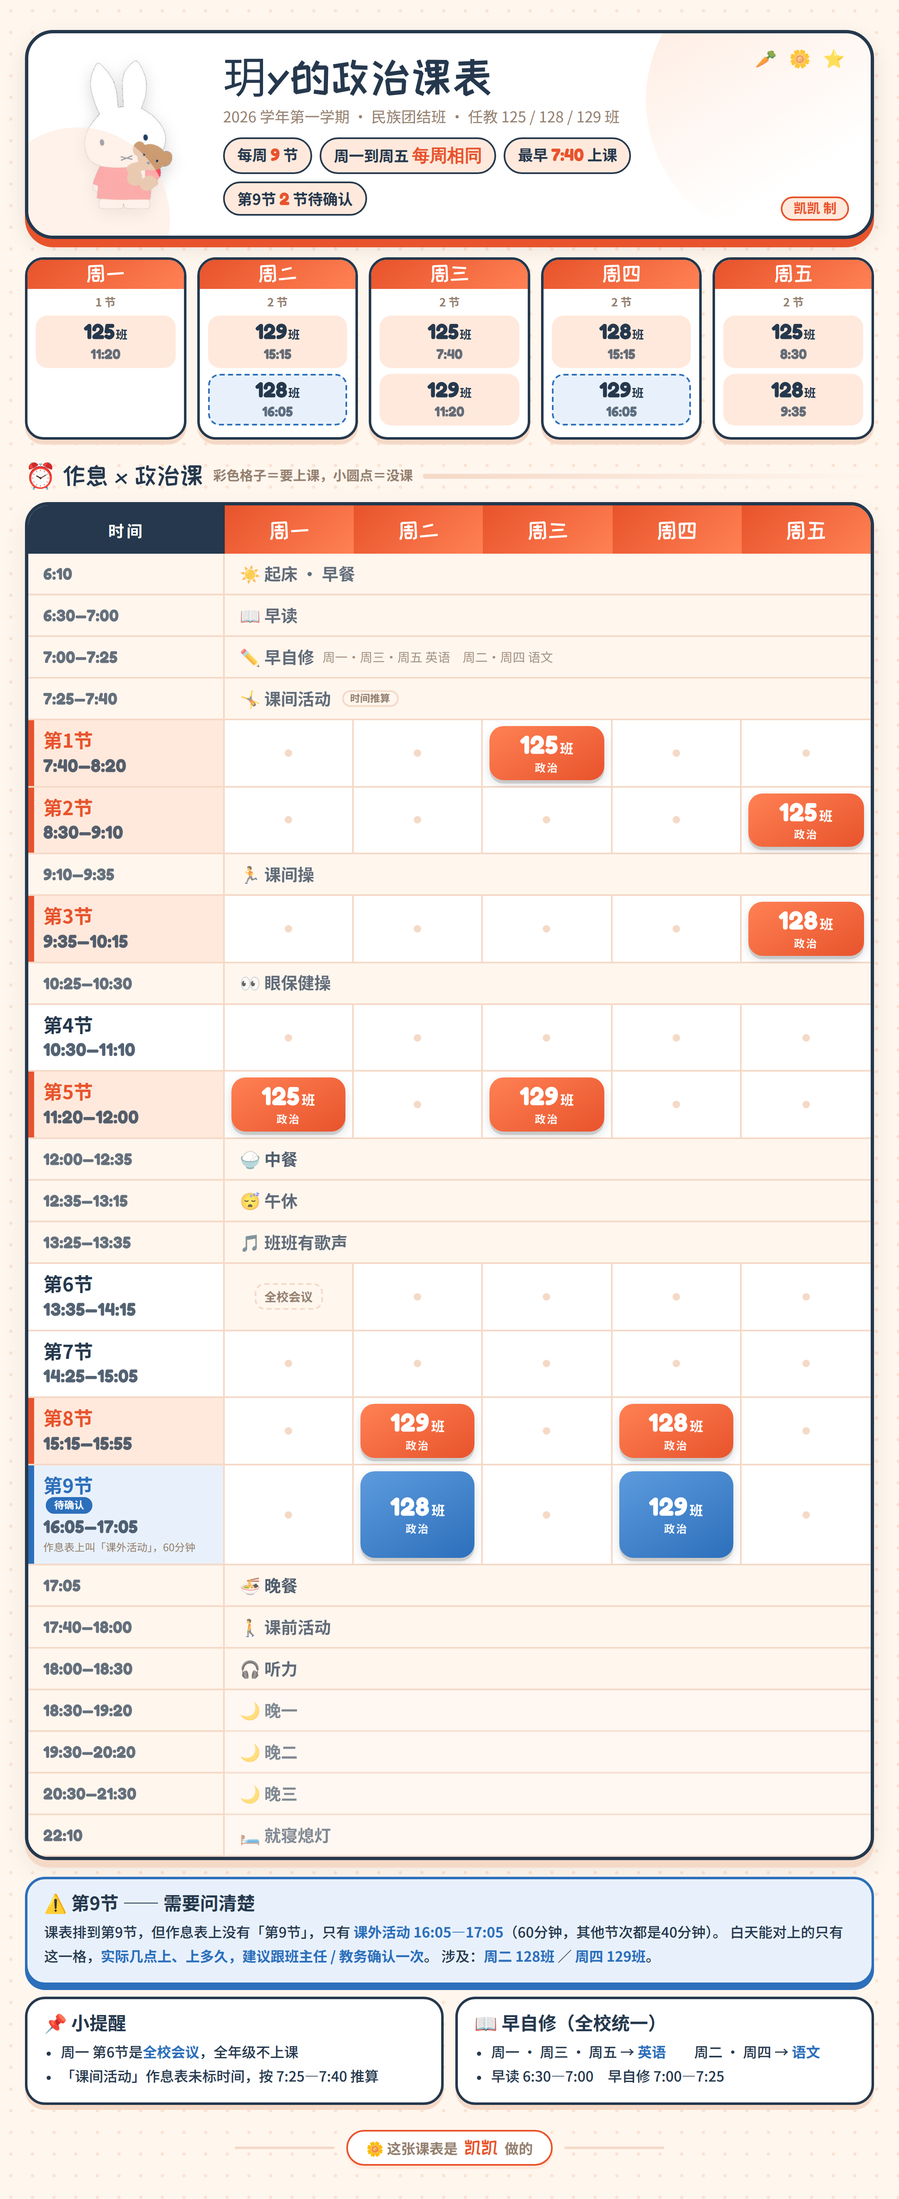
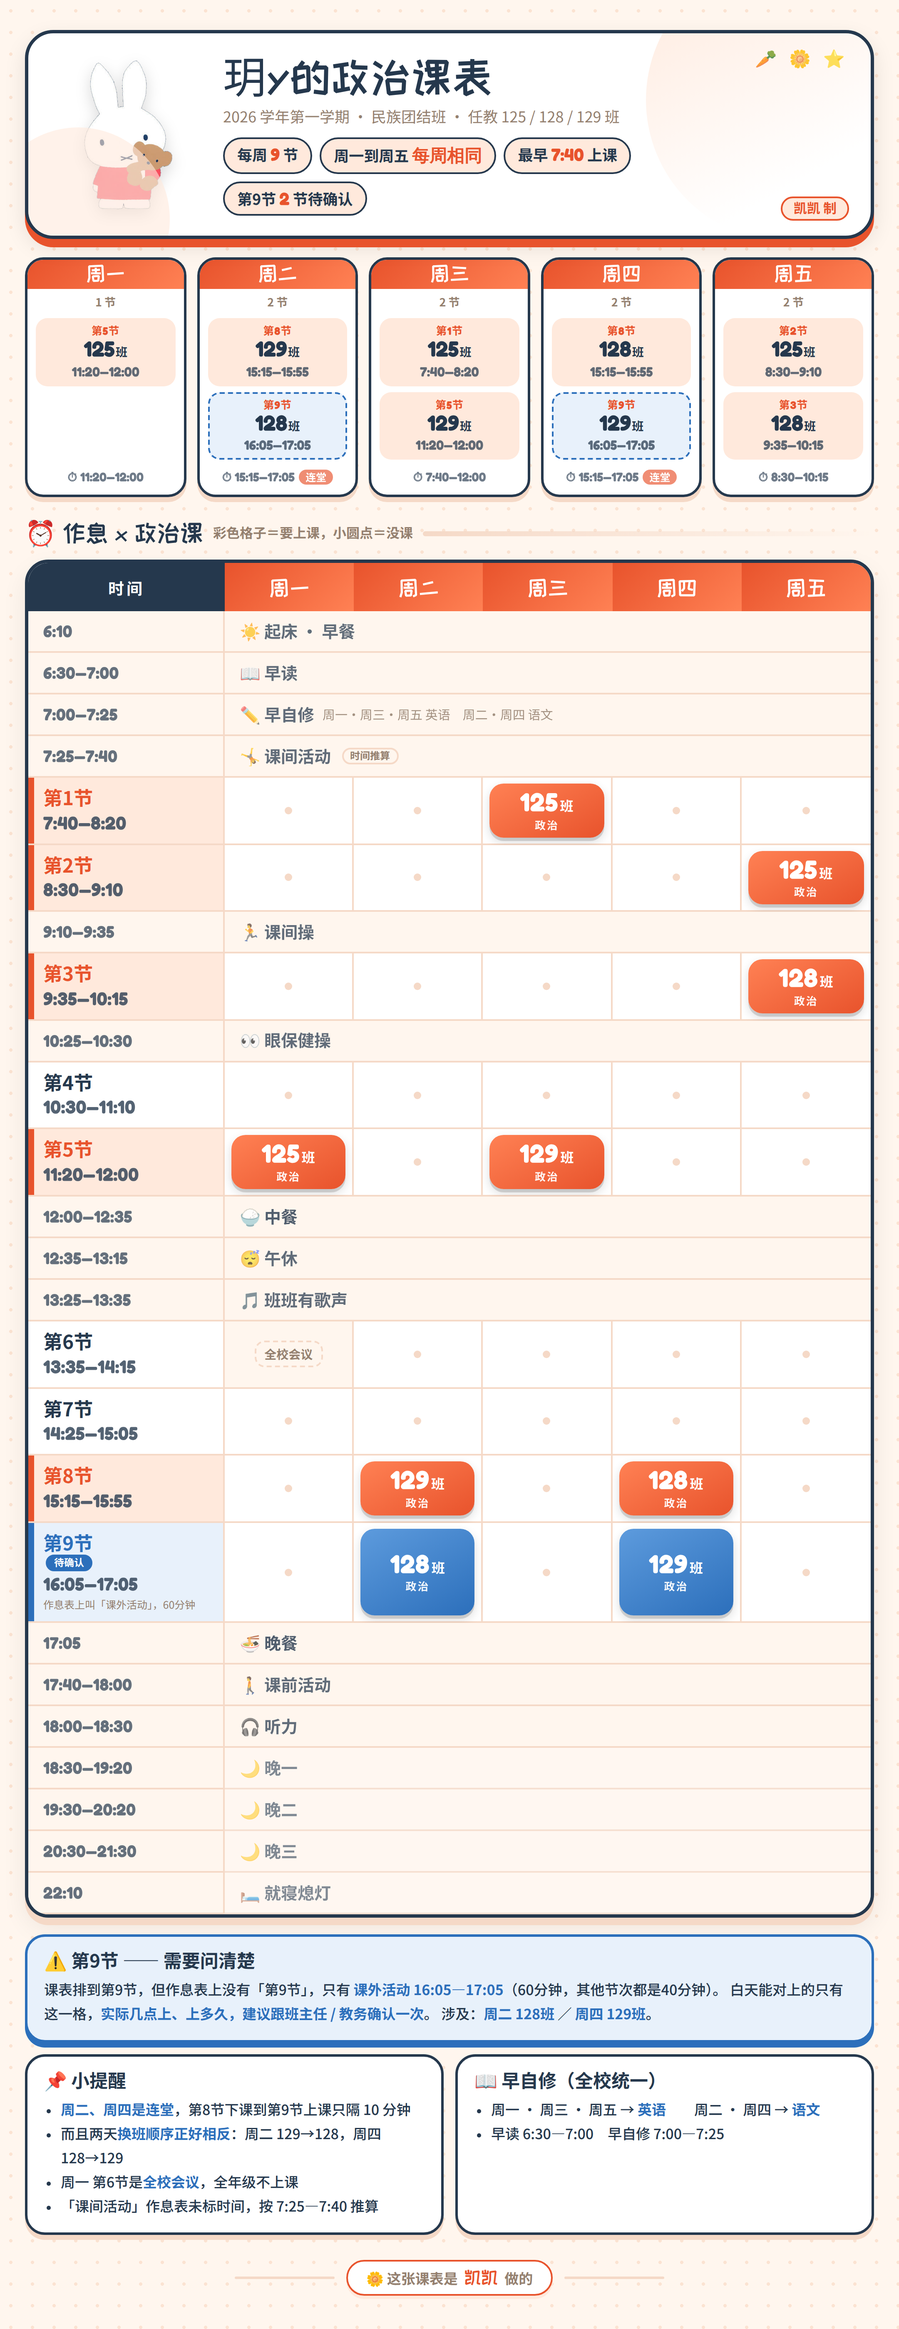
Surface period numbers, day spans, and the back-to-back lesson hazard
Reviewing the sheet as someone actually teaching from it turned up three gaps:
the glance cards named a class and a start time but never the period number,
which is how colleagues and students refer to a lesson; there was no way to see
how long a day runs; and nothing flagged that Tuesday and Thursday both run
period 8 straight into period 9 with a ten-minute gap, in opposite class order
(129 then 128 on Tuesday, 128 then 129 on Thursday) - the easiest way to walk
into the wrong room.

Glance cards now carry the period, the full time range, and a footer with the
day's span plus a 连堂 tag when two lessons are within 15 minutes; the reminder
box spells out the reversed order.

Claude-Session: https://claude.ai/code/session_01PkbQVBneuAgKa97Dwj4CEX

diff --git a/timetable/tt_bunny.html b/timetable/tt_bunny.html
@@ -37,16 +37,24 @@ h1 small{display:block;font-size:18px;color:var(--muted);margin-top:8px;letter-s
 
 /* ---------- 速览 ---------- */
 .glance{display:grid;grid-template-columns:repeat(5,1fr);gap:13px;margin-top:22px}
-.gl{background:var(--card);border:3px solid var(--ink);border-radius:22px;padding:0 10px 14px;
-    text-align:center;box-shadow:0 6px 0 var(--line);overflow:hidden}
+.gl{background:var(--card);border:3px solid var(--ink);border-radius:22px;padding:0 10px 12px;
+    text-align:center;box-shadow:0 6px 0 var(--line);overflow:hidden;
+    display:flex;flex-direction:column}
 .gl__d{font-size:26px;color:#fff;line-height:1.35;margin:0 -10px;
        background:linear-gradient(135deg,var(--brand),var(--brand2))}
-.gl__n{font-size:13.5px;color:var(--muted);font-weight:700;margin:7px 0 8px}
-.gl__i{background:var(--soft);border-radius:14px;padding:6px 4px;margin-top:7px}
+.gl__n{font-size:13.5px;color:var(--muted);font-weight:700;margin:7px 0 4px}
+.gl__i{background:var(--soft);border-radius:14px;padding:7px 4px 8px;margin-top:7px}
+.gl__p{display:block;font-size:13px;font-weight:800;color:var(--brand);letter-spacing:.5px}
+.gl__t{display:block;font-size:16px;color:var(--ink);opacity:.72;font-weight:700;margin-top:2px;
+       font-family:'Fredoka','Noto Sans SC',sans-serif}
+.gl__sp{margin-top:auto;padding-top:11px;font-size:15px;font-weight:700;color:var(--ink);opacity:.66;
+        font-family:'Fredoka','Noto Sans SC',sans-serif;white-space:nowrap}
+.gl__b2b{display:inline-block;font-style:normal;font-size:12.5px;font-weight:800;color:#fff;
+         background:var(--brand);border-radius:99px;padding:1px 8px;margin-left:5px;
+         font-family:'Noto Sans SC',sans-serif}
 .gl__i b{display:block;font-size:26px;font-family:'Fredoka',sans-serif;line-height:1.05;color:var(--ink)}
 .gl__i b em{font-size:14px;font-style:normal;font-weight:700;margin-left:1px;
             font-family:'Noto Sans SC',sans-serif}
-.gl__i span{display:block;font-size:17px;color:var(--ink);opacity:.7;font-weight:700;margin-top:2px}
 .gl__i--nine{background:var(--warnbg);outline:2.5px dashed var(--warn);outline-offset:-2px}
 
 /* ---------- 主表 ---------- */
@@ -140,31 +148,36 @@ h2{font-size:30px}
       <div class="gl">
         <div class="gl__d">周一</div>
         <div class="gl__n">1 节</div>
-        <div class="gl__i"><b>125<em>班</em></b><span>11:20</span></div>
+        <div class="gl__i"><span class="gl__p">第5节</span><b>125<em>班</em></b><span class="gl__t">11:20—12:00</span></div>
+        <div class="gl__sp">⏱ 11:20—12:00</div>
       </div>
 
       <div class="gl">
         <div class="gl__d">周二</div>
         <div class="gl__n">2 节</div>
-        <div class="gl__i"><b>129<em>班</em></b><span>15:15</span></div><div class="gl__i gl__i--nine"><b>128<em>班</em></b><span>16:05</span></div>
+        <div class="gl__i"><span class="gl__p">第8节</span><b>129<em>班</em></b><span class="gl__t">15:15—15:55</span></div><div class="gl__i gl__i--nine"><span class="gl__p">第9节</span><b>128<em>班</em></b><span class="gl__t">16:05—17:05</span></div>
+        <div class="gl__sp">⏱ 15:15—17:05<em class="gl__b2b">连堂</em></div>
       </div>
 
       <div class="gl">
         <div class="gl__d">周三</div>
         <div class="gl__n">2 节</div>
-        <div class="gl__i"><b>125<em>班</em></b><span>7:40</span></div><div class="gl__i"><b>129<em>班</em></b><span>11:20</span></div>
+        <div class="gl__i"><span class="gl__p">第1节</span><b>125<em>班</em></b><span class="gl__t">7:40—8:20</span></div><div class="gl__i"><span class="gl__p">第5节</span><b>129<em>班</em></b><span class="gl__t">11:20—12:00</span></div>
+        <div class="gl__sp">⏱ 7:40—12:00</div>
       </div>
 
       <div class="gl">
         <div class="gl__d">周四</div>
         <div class="gl__n">2 节</div>
-        <div class="gl__i"><b>128<em>班</em></b><span>15:15</span></div><div class="gl__i gl__i--nine"><b>129<em>班</em></b><span>16:05</span></div>
+        <div class="gl__i"><span class="gl__p">第8节</span><b>128<em>班</em></b><span class="gl__t">15:15—15:55</span></div><div class="gl__i gl__i--nine"><span class="gl__p">第9节</span><b>129<em>班</em></b><span class="gl__t">16:05—17:05</span></div>
+        <div class="gl__sp">⏱ 15:15—17:05<em class="gl__b2b">连堂</em></div>
       </div>
 
       <div class="gl">
         <div class="gl__d">周五</div>
         <div class="gl__n">2 节</div>
-        <div class="gl__i"><b>125<em>班</em></b><span>8:30</span></div><div class="gl__i"><b>128<em>班</em></b><span>9:35</span></div>
+        <div class="gl__i"><span class="gl__p">第2节</span><b>125<em>班</em></b><span class="gl__t">8:30—9:10</span></div><div class="gl__i"><span class="gl__p">第3节</span><b>128<em>班</em></b><span class="gl__t">9:35—10:15</span></div>
+        <div class="gl__sp">⏱ 8:30—10:15</div>
       </div></div>
 
   <div class="sec__hd"><h2>⏰ 作息 × 政治课</h2>
@@ -274,6 +287,8 @@ h2{font-size:30px}
     <div class="note">
       <h3>📌 小提醒</h3>
       <ul>
+        <li><b>周二、周四是连堂</b>，第8节下课到第9节上课只隔 10 分钟</li>
+        <li>而且两天<b>换班顺序正好相反</b>：周二 129→128，周四 128→129</li>
         <li>周一 第6节是<b>全校会议</b>，全年级不上课</li>
         <li>「课间活动」作息表未标时间，按 7:25—7:40 推算</li>
       </ul>

diff --git a/timetable/tt_kitty.html b/timetable/tt_kitty.html
@@ -37,16 +37,24 @@ h1 small{display:block;font-size:18px;color:var(--muted);margin-top:8px;letter-s
 
 /* ---------- 速览 ---------- */
 .glance{display:grid;grid-template-columns:repeat(5,1fr);gap:13px;margin-top:22px}
-.gl{background:var(--card);border:3px solid var(--ink);border-radius:22px;padding:0 10px 14px;
-    text-align:center;box-shadow:0 6px 0 var(--line);overflow:hidden}
+.gl{background:var(--card);border:3px solid var(--ink);border-radius:22px;padding:0 10px 12px;
+    text-align:center;box-shadow:0 6px 0 var(--line);overflow:hidden;
+    display:flex;flex-direction:column}
 .gl__d{font-size:26px;color:#fff;line-height:1.35;margin:0 -10px;
        background:linear-gradient(135deg,var(--brand),var(--brand2))}
-.gl__n{font-size:13.5px;color:var(--muted);font-weight:700;margin:7px 0 8px}
-.gl__i{background:var(--soft);border-radius:14px;padding:6px 4px;margin-top:7px}
+.gl__n{font-size:13.5px;color:var(--muted);font-weight:700;margin:7px 0 4px}
+.gl__i{background:var(--soft);border-radius:14px;padding:7px 4px 8px;margin-top:7px}
+.gl__p{display:block;font-size:13px;font-weight:800;color:var(--brand);letter-spacing:.5px}
+.gl__t{display:block;font-size:16px;color:var(--ink);opacity:.72;font-weight:700;margin-top:2px;
+       font-family:'Fredoka','Noto Sans SC',sans-serif}
+.gl__sp{margin-top:auto;padding-top:11px;font-size:15px;font-weight:700;color:var(--ink);opacity:.66;
+        font-family:'Fredoka','Noto Sans SC',sans-serif;white-space:nowrap}
+.gl__b2b{display:inline-block;font-style:normal;font-size:12.5px;font-weight:800;color:#fff;
+         background:var(--brand);border-radius:99px;padding:1px 8px;margin-left:5px;
+         font-family:'Noto Sans SC',sans-serif}
 .gl__i b{display:block;font-size:26px;font-family:'Fredoka',sans-serif;line-height:1.05;color:var(--ink)}
 .gl__i b em{font-size:14px;font-style:normal;font-weight:700;margin-left:1px;
             font-family:'Noto Sans SC',sans-serif}
-.gl__i span{display:block;font-size:17px;color:var(--ink);opacity:.7;font-weight:700;margin-top:2px}
 .gl__i--nine{background:var(--warnbg);outline:2.5px dashed var(--warn);outline-offset:-2px}
 
 /* ---------- 主表 ---------- */
@@ -140,31 +148,36 @@ h2{font-size:30px}
       <div class="gl">
         <div class="gl__d">周一</div>
         <div class="gl__n">1 节</div>
-        <div class="gl__i"><b>125<em>班</em></b><span>11:20</span></div>
+        <div class="gl__i"><span class="gl__p">第5节</span><b>125<em>班</em></b><span class="gl__t">11:20—12:00</span></div>
+        <div class="gl__sp">⏱ 11:20—12:00</div>
       </div>
 
       <div class="gl">
         <div class="gl__d">周二</div>
         <div class="gl__n">2 节</div>
-        <div class="gl__i"><b>129<em>班</em></b><span>15:15</span></div><div class="gl__i gl__i--nine"><b>128<em>班</em></b><span>16:05</span></div>
+        <div class="gl__i"><span class="gl__p">第8节</span><b>129<em>班</em></b><span class="gl__t">15:15—15:55</span></div><div class="gl__i gl__i--nine"><span class="gl__p">第9节</span><b>128<em>班</em></b><span class="gl__t">16:05—17:05</span></div>
+        <div class="gl__sp">⏱ 15:15—17:05<em class="gl__b2b">连堂</em></div>
       </div>
 
       <div class="gl">
         <div class="gl__d">周三</div>
         <div class="gl__n">2 节</div>
-        <div class="gl__i"><b>125<em>班</em></b><span>7:40</span></div><div class="gl__i"><b>129<em>班</em></b><span>11:20</span></div>
+        <div class="gl__i"><span class="gl__p">第1节</span><b>125<em>班</em></b><span class="gl__t">7:40—8:20</span></div><div class="gl__i"><span class="gl__p">第5节</span><b>129<em>班</em></b><span class="gl__t">11:20—12:00</span></div>
+        <div class="gl__sp">⏱ 7:40—12:00</div>
       </div>
 
       <div class="gl">
         <div class="gl__d">周四</div>
         <div class="gl__n">2 节</div>
-        <div class="gl__i"><b>128<em>班</em></b><span>15:15</span></div><div class="gl__i gl__i--nine"><b>129<em>班</em></b><span>16:05</span></div>
+        <div class="gl__i"><span class="gl__p">第8节</span><b>128<em>班</em></b><span class="gl__t">15:15—15:55</span></div><div class="gl__i gl__i--nine"><span class="gl__p">第9节</span><b>129<em>班</em></b><span class="gl__t">16:05—17:05</span></div>
+        <div class="gl__sp">⏱ 15:15—17:05<em class="gl__b2b">连堂</em></div>
       </div>
 
       <div class="gl">
         <div class="gl__d">周五</div>
         <div class="gl__n">2 节</div>
-        <div class="gl__i"><b>125<em>班</em></b><span>8:30</span></div><div class="gl__i"><b>128<em>班</em></b><span>9:35</span></div>
+        <div class="gl__i"><span class="gl__p">第2节</span><b>125<em>班</em></b><span class="gl__t">8:30—9:10</span></div><div class="gl__i"><span class="gl__p">第3节</span><b>128<em>班</em></b><span class="gl__t">9:35—10:15</span></div>
+        <div class="gl__sp">⏱ 8:30—10:15</div>
       </div></div>
 
   <div class="sec__hd"><h2>⏰ 作息 × 政治课</h2>
@@ -274,6 +287,8 @@ h2{font-size:30px}
     <div class="note">
       <h3>📌 小提醒</h3>
       <ul>
+        <li><b>周二、周四是连堂</b>，第8节下课到第9节上课只隔 10 分钟</li>
+        <li>而且两天<b>换班顺序正好相反</b>：周二 129→128，周四 128→129</li>
         <li>周一 第6节是<b>全校会议</b>，全年级不上课</li>
         <li>「课间活动」作息表未标时间，按 7:25—7:40 推算</li>
       </ul>

diff --git a/timetable/tt_puppy.html b/timetable/tt_puppy.html
@@ -37,16 +37,24 @@ h1 small{display:block;font-size:18px;color:var(--muted);margin-top:8px;letter-s
 
 /* ---------- 速览 ---------- */
 .glance{display:grid;grid-template-columns:repeat(5,1fr);gap:13px;margin-top:22px}
-.gl{background:var(--card);border:3px solid var(--ink);border-radius:22px;padding:0 10px 14px;
-    text-align:center;box-shadow:0 6px 0 var(--line);overflow:hidden}
+.gl{background:var(--card);border:3px solid var(--ink);border-radius:22px;padding:0 10px 12px;
+    text-align:center;box-shadow:0 6px 0 var(--line);overflow:hidden;
+    display:flex;flex-direction:column}
 .gl__d{font-size:26px;color:#fff;line-height:1.35;margin:0 -10px;
        background:linear-gradient(135deg,var(--brand),var(--brand2))}
-.gl__n{font-size:13.5px;color:var(--muted);font-weight:700;margin:7px 0 8px}
-.gl__i{background:var(--soft);border-radius:14px;padding:6px 4px;margin-top:7px}
+.gl__n{font-size:13.5px;color:var(--muted);font-weight:700;margin:7px 0 4px}
+.gl__i{background:var(--soft);border-radius:14px;padding:7px 4px 8px;margin-top:7px}
+.gl__p{display:block;font-size:13px;font-weight:800;color:var(--brand);letter-spacing:.5px}
+.gl__t{display:block;font-size:16px;color:var(--ink);opacity:.72;font-weight:700;margin-top:2px;
+       font-family:'Fredoka','Noto Sans SC',sans-serif}
+.gl__sp{margin-top:auto;padding-top:11px;font-size:15px;font-weight:700;color:var(--ink);opacity:.66;
+        font-family:'Fredoka','Noto Sans SC',sans-serif;white-space:nowrap}
+.gl__b2b{display:inline-block;font-style:normal;font-size:12.5px;font-weight:800;color:#fff;
+         background:var(--brand);border-radius:99px;padding:1px 8px;margin-left:5px;
+         font-family:'Noto Sans SC',sans-serif}
 .gl__i b{display:block;font-size:26px;font-family:'Fredoka',sans-serif;line-height:1.05;color:var(--ink)}
 .gl__i b em{font-size:14px;font-style:normal;font-weight:700;margin-left:1px;
             font-family:'Noto Sans SC',sans-serif}
-.gl__i span{display:block;font-size:17px;color:var(--ink);opacity:.7;font-weight:700;margin-top:2px}
 .gl__i--nine{background:var(--warnbg);outline:2.5px dashed var(--warn);outline-offset:-2px}
 
 /* ---------- 主表 ---------- */
@@ -140,31 +148,36 @@ h2{font-size:30px}
       <div class="gl">
         <div class="gl__d">周一</div>
         <div class="gl__n">1 节</div>
-        <div class="gl__i"><b>125<em>班</em></b><span>11:20</span></div>
+        <div class="gl__i"><span class="gl__p">第5节</span><b>125<em>班</em></b><span class="gl__t">11:20—12:00</span></div>
+        <div class="gl__sp">⏱ 11:20—12:00</div>
       </div>
 
       <div class="gl">
         <div class="gl__d">周二</div>
         <div class="gl__n">2 节</div>
-        <div class="gl__i"><b>129<em>班</em></b><span>15:15</span></div><div class="gl__i gl__i--nine"><b>128<em>班</em></b><span>16:05</span></div>
+        <div class="gl__i"><span class="gl__p">第8节</span><b>129<em>班</em></b><span class="gl__t">15:15—15:55</span></div><div class="gl__i gl__i--nine"><span class="gl__p">第9节</span><b>128<em>班</em></b><span class="gl__t">16:05—17:05</span></div>
+        <div class="gl__sp">⏱ 15:15—17:05<em class="gl__b2b">连堂</em></div>
       </div>
 
       <div class="gl">
         <div class="gl__d">周三</div>
         <div class="gl__n">2 节</div>
-        <div class="gl__i"><b>125<em>班</em></b><span>7:40</span></div><div class="gl__i"><b>129<em>班</em></b><span>11:20</span></div>
+        <div class="gl__i"><span class="gl__p">第1节</span><b>125<em>班</em></b><span class="gl__t">7:40—8:20</span></div><div class="gl__i"><span class="gl__p">第5节</span><b>129<em>班</em></b><span class="gl__t">11:20—12:00</span></div>
+        <div class="gl__sp">⏱ 7:40—12:00</div>
       </div>
 
       <div class="gl">
         <div class="gl__d">周四</div>
         <div class="gl__n">2 节</div>
-        <div class="gl__i"><b>128<em>班</em></b><span>15:15</span></div><div class="gl__i gl__i--nine"><b>129<em>班</em></b><span>16:05</span></div>
+        <div class="gl__i"><span class="gl__p">第8节</span><b>128<em>班</em></b><span class="gl__t">15:15—15:55</span></div><div class="gl__i gl__i--nine"><span class="gl__p">第9节</span><b>129<em>班</em></b><span class="gl__t">16:05—17:05</span></div>
+        <div class="gl__sp">⏱ 15:15—17:05<em class="gl__b2b">连堂</em></div>
       </div>
 
       <div class="gl">
         <div class="gl__d">周五</div>
         <div class="gl__n">2 节</div>
-        <div class="gl__i"><b>125<em>班</em></b><span>8:30</span></div><div class="gl__i"><b>128<em>班</em></b><span>9:35</span></div>
+        <div class="gl__i"><span class="gl__p">第2节</span><b>125<em>班</em></b><span class="gl__t">8:30—9:10</span></div><div class="gl__i"><span class="gl__p">第3节</span><b>128<em>班</em></b><span class="gl__t">9:35—10:15</span></div>
+        <div class="gl__sp">⏱ 8:30—10:15</div>
       </div></div>
 
   <div class="sec__hd"><h2>⏰ 作息 × 政治课</h2>
@@ -274,6 +287,8 @@ h2{font-size:30px}
     <div class="note">
       <h3>📌 小提醒</h3>
       <ul>
+        <li><b>周二、周四是连堂</b>，第8节下课到第9节上课只隔 10 分钟</li>
+        <li>而且两天<b>换班顺序正好相反</b>：周二 129→128，周四 128→129</li>
         <li>周一 第6节是<b>全校会议</b>，全年级不上课</li>
         <li>「课间活动」作息表未标时间，按 7:25—7:40 推算</li>
       </ul>

diff --git a/timetable/build.py b/timetable/build.py
@@ -146,19 +146,37 @@ def user_mascot(key):
     return None
 
 # ---------------- HTML 片段 ----------------
+def _mins(t):
+    h, m = t.split(":")
+    return int(h) * 60 + int(m)
+
+def day_span(ls):
+    """当天从第一节开始到最后一节结束的跨度，以及是否连堂（间隔≤15分钟）"""
+    first = PERIOD_TIME[ls[0][1]].split("—")[0]
+    last = PERIOD_TIME[ls[-1][1]].split("—")[-1]
+    back2back = any(_mins(PERIOD_TIME[b[1]].split("—")[0]) -
+                    _mins(PERIOD_TIME[a[1]].split("—")[-1]) <= 15
+                    for a, b in zip(ls, ls[1:]))
+    return f"{first}—{last}", back2back
+
 def build_glance():
     out = []
     for d in range(1, 6):
         ls = day_lessons(d)
         items = "".join(
             f'<div class="gl__i{" gl__i--nine" if p == 9 else ""}">'
-            f'<b>{k}<em>班</em></b><span>{PERIOD_TIME[p].split("—")[0]}</span></div>'
+            f'<span class="gl__p">第{p}节</span>'
+            f'<b>{k}<em>班</em></b>'
+            f'<span class="gl__t">{PERIOD_TIME[p]}</span></div>'
             for (_, p, k) in ls)
+        span, b2b = day_span(ls)
+        tag = '<em class="gl__b2b">连堂</em>' if b2b else ""
         out.append(f'''
       <div class="gl">
         <div class="gl__d">{DAYS[d-1]}</div>
         <div class="gl__n">{len(ls)} 节</div>
         {items}
+        <div class="gl__sp">⏱ {span}{tag}</div>
       </div>''')
     return "\n".join(out)
 
@@ -233,16 +251,24 @@ h1 small{display:block;font-size:18px;color:var(--muted);margin-top:8px;letter-s
 
 /* ---------- 速览 ---------- */
 .glance{display:grid;grid-template-columns:repeat(5,1fr);gap:13px;margin-top:22px}
-.gl{background:var(--card);border:3px solid var(--ink);border-radius:22px;padding:0 10px 14px;
-    text-align:center;box-shadow:0 6px 0 var(--line);overflow:hidden}
+.gl{background:var(--card);border:3px solid var(--ink);border-radius:22px;padding:0 10px 12px;
+    text-align:center;box-shadow:0 6px 0 var(--line);overflow:hidden;
+    display:flex;flex-direction:column}
 .gl__d{font-size:26px;color:#fff;line-height:1.35;margin:0 -10px;
        background:linear-gradient(135deg,var(--brand),var(--brand2))}
-.gl__n{font-size:13.5px;color:var(--muted);font-weight:700;margin:7px 0 8px}
-.gl__i{background:var(--soft);border-radius:14px;padding:6px 4px;margin-top:7px}
+.gl__n{font-size:13.5px;color:var(--muted);font-weight:700;margin:7px 0 4px}
+.gl__i{background:var(--soft);border-radius:14px;padding:7px 4px 8px;margin-top:7px}
+.gl__p{display:block;font-size:13px;font-weight:800;color:var(--brand);letter-spacing:.5px}
+.gl__t{display:block;font-size:16px;color:var(--ink);opacity:.72;font-weight:700;margin-top:2px;
+       font-family:'Fredoka','Noto Sans SC',sans-serif}
+.gl__sp{margin-top:auto;padding-top:11px;font-size:15px;font-weight:700;color:var(--ink);opacity:.66;
+        font-family:'Fredoka','Noto Sans SC',sans-serif;white-space:nowrap}
+.gl__b2b{display:inline-block;font-style:normal;font-size:12.5px;font-weight:800;color:#fff;
+         background:var(--brand);border-radius:99px;padding:1px 8px;margin-left:5px;
+         font-family:'Noto Sans SC',sans-serif}
 .gl__i b{display:block;font-size:26px;font-family:'Fredoka',sans-serif;line-height:1.05;color:var(--ink)}
 .gl__i b em{font-size:14px;font-style:normal;font-weight:700;margin-left:1px;
             font-family:'Noto Sans SC',sans-serif}
-.gl__i span{display:block;font-size:17px;color:var(--ink);opacity:.7;font-weight:700;margin-top:2px}
 .gl__i--nine{background:var(--warnbg);outline:2.5px dashed var(--warn);outline-offset:-2px}
 
 /* ---------- 主表 ---------- */
@@ -356,6 +382,8 @@ PAGE = """<!doctype html><html lang="zh-CN"><head><meta charset="utf-8">
     <div class="note">
       <h3>📌 小提醒</h3>
       <ul>
+        <li><b>周二、周四是连堂</b>，第8节下课到第9节上课只隔 10 分钟</li>
+        <li>而且两天<b>换班顺序正好相反</b>：周二 129→128，周四 128→129</li>
         <li>周一 第6节是<b>全校会议</b>，全年级不上课</li>
         <li>「课间活动」作息表未标时间，按 7:25—7:40 推算</li>
       </ul>
